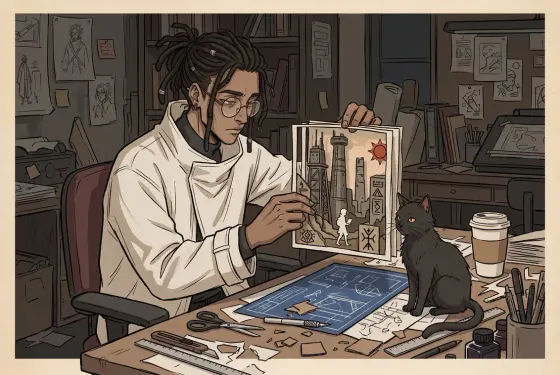
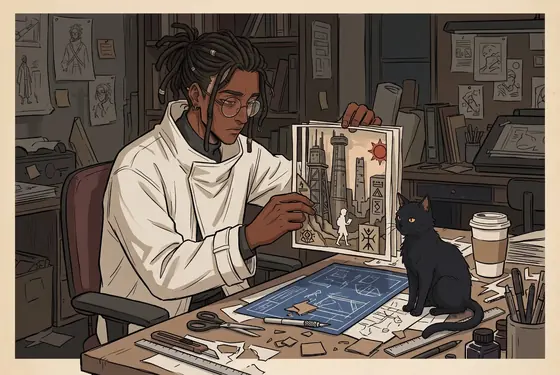
Characters C1: one Yasser, one Kūro
- Yasser's skin taken back to the rig's tone on the workbench scene (home night
  band + Studio diorama) and the Studio's 'What I make' trio; nothing redrawn
- Kūro's fur to canon black: kuro-sit, kuro-paw, the Librairie's cast/kuro,
  the workbench scene and the artist trio (scripts/kuro-canon.mjs for the three
  stand-alone files, guarded against a second pass)
- BRAND.md: the model sheet (locked traits; the style may change per series,
  consistently)
- Deleted the two orphaned founder cut-outs (yasser-coffee, yasser-facepalm)

Claude-Session: https://claude.ai/code/session_01Y5t7HwF3EQVVeiW56aJJuK

diff --git a/BRAND.md b/BRAND.md
@@ -1950,6 +1950,44 @@ Page changes are the cross-document page lift (500 ms); the JavaScript paper wip
 
 **The reel.** The rig, console and passage posters were re-taken from their clips at `posterAt` (rig 0, console 0, passage 2.5; `hub/src/reel.json`, read by `scripts/motion-add.mjs`); the console clip is cropped to its content; the opening was re-recorded from the fixed intro ("2,7 s · à chaque visite"). The passage clip still shows the old doors and the paper wipe until it is recorded again (an owner item).
 
+## The model sheet: one Yasser, one Kūro (2026-11-24)
+
+Every drawing of the two of them, whoever or whatever makes it, is held to
+this sheet. **The art style may change from one series to another (the rig's
+anime cel, the Librairie's posters, the pixel row, the stickers), as long as
+it changes consistently across a series and the traits below hold in every
+style** (owner, 2026-11-24). A drawing that misses a locked trait is off-model: it is redrawn,
+cropped so the trait does not read, or not published. Lighting may change
+(lamp-warm, night-cool); the traits may not. The side-by-side that started
+this sheet is in the project files (`characters/model-drift.jpg`).
+
+**Yasser** (the founder himself; always a drawing, never a photograph):
+- Skin: deep brown, the rig's tone (`hub/bible/art/rig-y-base.webp`). Never lightened.
+- Face: long, narrow chin, heavy-lidded eyes, round thin-rimmed glasses.
+- Hair: long black locs; worn loose or tied up (topknot, red hairsticks). Loose strands and tied-up locs are the same hair, not drift (owner, 2026-11-24).
+- Clothes: black turtleneck; the oversized cream coat with red sleeve patches
+  (the Numidea mark on the patch); black cargo trousers; cream sneakers.
+- Props he can hold: the coffee cup, a tablet, a board. Never a cigarette, never a logo of a third party.
+
+**Kūro** (the black cat):
+- Fur: jet black, flat, a cool ink black (no brown, no navy). Rim light may be warm or cool, the fur stays black.
+- Eyes: amber, round, heavy-lidded when unimpressed.
+- Red collar with a small tag. Pink inner ears.
+- Body: compact, short muzzle; deadpan rather than cute.
+
+**Reference set** (on-model, use these when briefing new art): `hub/bible/art/rig-y-base`,
+`actor-*`, `face-*`, `pose-*` for Yasser; `kuro-judge`, `kuro-stamp`, `kuro-loaf`, `rig-k-base` for Kūro.
+
+**Fixes made on 2026-11-24 (characters C1):** `kuro-sit`, `kuro-paw` (brown) and the Librairie's
+`cast/kuro` (navy) were recoloured to canon black by `scripts/kuro-canon.mjs` (run it again after
+`npm run hub:art`, which cuts the two sit/paw files brown from the masters). The two unused founder
+cut-outs (`assets/illus/yasser-coffee`, `yasser-facepalm`) were deleted. Yasser's skin was taken
+back to the rig's tone (seeded skin mask, per-channel gain 0.76/0.59/0.55; the tools are kept in the
+project files, `characters/tools/`) on the workbench scene (`hub/img/studio/m/diorama{,.full}`,
+`assets/illus/workbench-night{,-560}`, whose Kūro was taken to canon black too) and on the Studio's
+"What I make" trio (`hub/img/studio/make/*`, the artist's Kūro too). Still off-model and not yet fixed:
+the bible's pixel row (`sil-*`) and the animated `yasser-lost` sticker, both lighter-skinned.
+
 ## The calculator: a receipt that adds up, and the console (2026-11-16)
 
 **The rule.** A quote is a list of lines and its total is their exact sum. It is never rounded after it is summed: the owner found the old calculator "broken", and one cause was a total that its parts did not add up to. `ESTIMATE.quote()` in `assets/app.js` returns `lines` (`base`, `extra`, `opt`, `studio`, `rush`); every display of a quote (the home, the price guide, the Studio) prints those lines. Lines are in dinars, the currency the prices are set in; a converted total keeps its "≈". `scripts/check.mjs` 8c holds the rule on every type, size, option set and pace.

diff --git a/OWNER-CONTENT.md b/OWNER-CONTENT.md
@@ -2370,8 +2370,9 @@ No licence is chosen for these yet, like the rest of the art.
   Arabic (it falls to the right in both directions now)? The Studio
   founder's floor label is an ink label, not brass (brass is kept for
   places, and brass text on cream is too faint): say if you prefer brass.
-- `yasser-coffee.webp` and `yasser-facepalm.webp` in `assets/illus/` are no
-  longer shown by the home or the 404: keep them or have them deleted.
+- `yasser-coffee.webp` and `yasser-facepalm.webp` in `assets/illus/` were no
+  longer shown by the home or the 404: deleted on 2026-11-24 (characters C1);
+  git history keeps them.
 - E20 (the Bordj Steel references capture with its grey band) needs a new
   capture of the live site.
 
